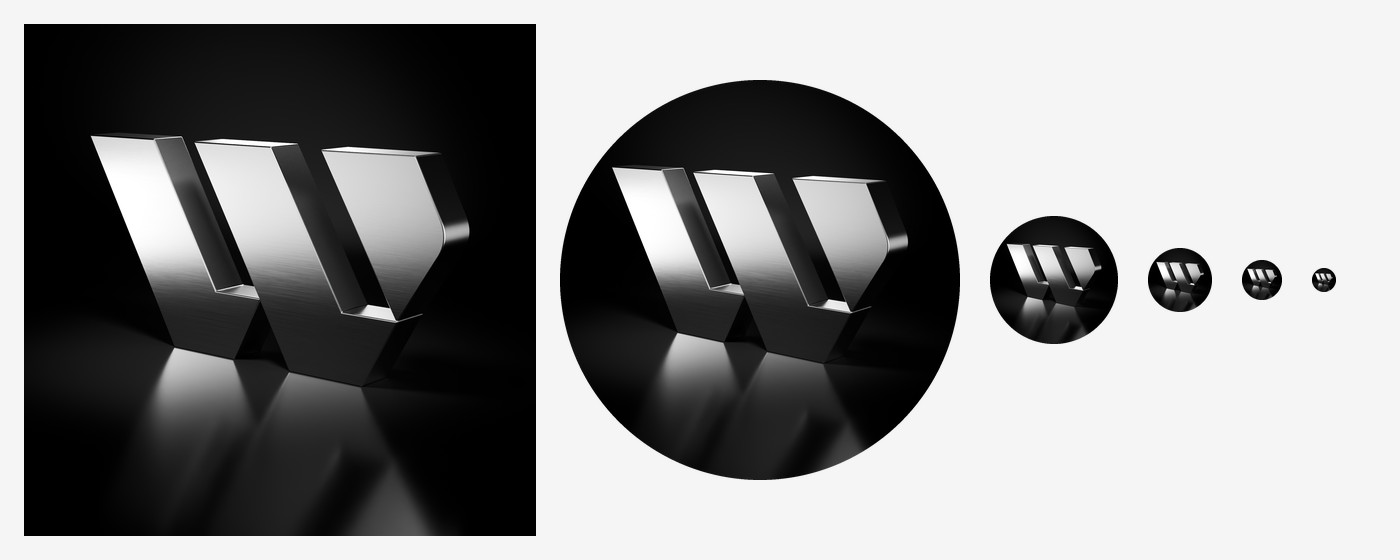
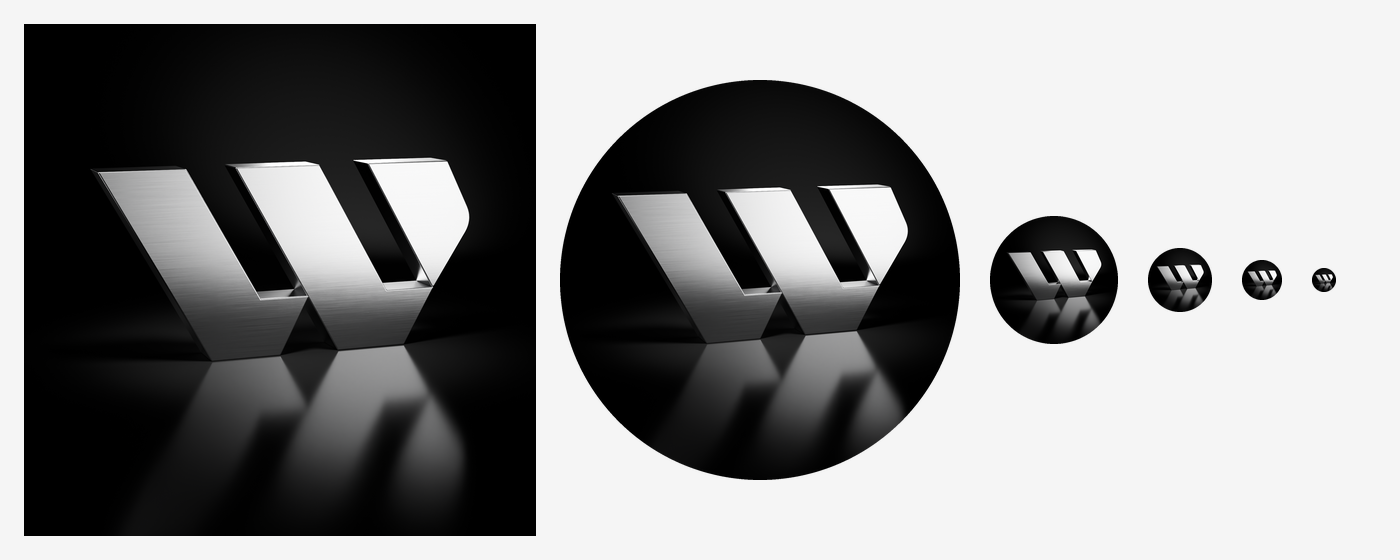
Turn W left side toward camera at half rotation, halve floor reflection
Previous version kept in brand/pfp/previous.

Claude-Session: https://claude.ai/code/session_011o1QFUqUw4g8AFbDVkHq2W

diff --git a/brand/3d/pfp.py b/brand/3d/pfp.py
@@ -97,6 +97,16 @@ fb.inputs['Base Color'].default_value = (0.035, 0.035, 0.035, 1)
 fb.inputs['Roughness'].default_value = 0.16
 fb.inputs['Specular IOR Level'].default_value = 0.35
 fl.data.materials.append(fm)
+# scale the floor's mirror reflection without touching its diffuse response
+_out = fm.node_tree.nodes['Material Output']; _b = fm.node_tree.nodes['Principled BSDF']
+_mix = fm.node_tree.nodes.new('ShaderNodeMixShader'); _tr = fm.node_tree.nodes.new('ShaderNodeBsdfTransparent')
+_dif = fm.node_tree.nodes.new('ShaderNodeBsdfDiffuse'); _dif.inputs['Color'].default_value = (0.035, 0.035, 0.035, 1)
+_add = fm.node_tree.nodes.new('ShaderNodeAddShader')
+_mix.inputs['Fac'].default_value = 1 - float(args.get('refl', 1.0))
+_hold = fm.node_tree.nodes.new('ShaderNodeHoldout')
+fm.node_tree.links.new(_b.outputs['BSDF'], _mix.inputs[1])
+fm.node_tree.links.new(_dif.outputs['BSDF'], _mix.inputs[2])
+fm.node_tree.links.new(_mix.outputs['Shader'], _out.inputs['Surface'])
 
 # ---------- world: black ----------
 wd = bpy.data.worlds.new('w'); sc.world = wd; wd.use_nodes = True
